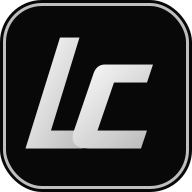
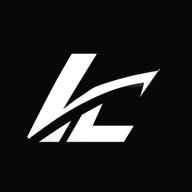
Add files via upload

diff --git a/app.js b/app.js
@@ -1,5 +1,7 @@
 const KEY='lifechangers-v2', OLD='lifechangers-v1';
-const ATTRS=[['🏃','Treino e saúde'],['🥗','Alimentação'],['📚','Estudos'],['🗓','Disciplina e rotina'],['💬','Social e comunicação'],['🌙','Sono e descanso'],['🪙','Finanças e economia'],['✨','Autocuidado & estilo']];
+const ATTRS=[['◈','Físico'],['✦','Espírito'],['▣','Conhecimento'],['♡','Emoção'],['◇','Aparência']];
+const ATTR_MAP={'Treino e saúde':'Físico','Alimentação':'Físico','Sono e descanso':'Físico','Estudos':'Conhecimento','Finanças e economia':'Conhecimento','Disciplina e rotina':'Espírito','Social e comunicação':'Emoção','Autocuidado & estilo':'Aparência'};
+const normalizedAttr=n=>ATTR_MAP[n]||n;
 const BASE=[
 ['food','Alimentação equilibrada','Faça refeições variadas ao longo do dia, respeitando sua fome e rotina.','Alimentação','🥗',25,'daily'],
 ['move','Movimento do dia','Faça a atividade planejada ou respeite seu dia de descanso.','Treino e saúde','🏃',30,'daily'],
@@ -17,9 +19,12 @@ const BASE=[
 ];
 const ACH=[['🌱','Primeiro passo','Conclua uma missão.',s=>s.totalCompleted>=1],['⚡','Ritmo em construção','Conclua 5 missões.',s=>s.totalCompleted>=5],['🏅','Aventureiro dedicado','Conclua 15 missões.',s=>s.totalCompleted>=15],['📈','Nível 5','Alcance o nível 5.',s=>s.level>=5],['✨','Autocuidado','Conclua uma missão de autocuidado.',s=>s.careDone],['🛍','Primeiro resgate','Resgate uma recompensa.',s=>s.inventory.length>0]];
 const today=()=>new Date().toLocaleDateString('en-CA');const week=()=>{let d=new Date();d.setHours(0,0,0,0);d.setDate(d.getDate()-((d.getDay()+6)%7));return d.toLocaleDateString('en-CA')};
-function fresh(){return {date:today(),week:week(),xp:0,coins:0,completed:[],weeklyDone:[],notCompleted:[],weeklyNotCompleted:[],custom:[],rewards:[{id:'r1',name:'Escolher um filme ou série',cost:45},{id:'r2',name:'Uma hora de lazer',cost:60},{id:'r3',name:'Passeio especial combinado',cost:160},{id:'r4',name:'Escolher uma atividade no fim de semana',cost:100},{id:'r5',name:'Tarde livre para um hobby',cost:110},{id:'r6',name:'Livro, acessório ou item planejado',cost:250},{id:'r7',name:'Passeio maior com planejamento',cost:350}],inventory:[],attrs:{},totalCompleted:0,careDone:false,player:{name:'Aventureiro',avatar:'⚡',title:'Iniciante'}}}
+function fresh(){return {date:today(),week:week(),xp:0,coins:0,completed:[],weeklyDone:[],notCompleted:[],weeklyNotCompleted:[],custom:[],rewards:[{id:'r1',name:'Escolher um filme ou série',cost:45},{id:'r2',name:'Uma hora de lazer',cost:60},{id:'r3',name:'Passeio especial combinado',cost:160},{id:'r4',name:'Escolher uma atividade no fim de semana',cost:100},{id:'r5',name:'Tarde livre para um hobby',cost:110},{id:'r6',name:'Livro, acessório ou item planejado',cost:250},{id:'r7',name:'Passeio maior com planejamento',cost:350}],inventory:[],attrs:{},missionProgress:{},history:[],totalCompleted:0,careDone:false,player:{name:'Aventureiro',avatar:'⚡',title:'Iniciante'}}}
 function load(){try{let s=JSON.parse(localStorage.getItem(KEY));if(!s){let old=JSON.parse(localStorage.getItem(OLD));s=fresh();if(old){s.xp=old.xp||0;s.coins=old.coins||0;s.completed=old.completed||[];s.totalCompleted=s.completed.length;s.careDone=!!old.careDone;s.rewards=(old.rewards||[]).map((r,i)=>({id:'legacy'+i,name:r.name,cost:100,claimed:!!r.claimed}));}}return {...fresh(),...(s||{})};}catch{return fresh()}}
 let state=load();
+if(!state.attrsMigrated4){const merged={};for(const [k,v] of Object.entries(state.attrs||{})){const key=normalizedAttr(k);merged[key]=(merged[key]||0)+(Number(v)||0);}state.attrs=merged;state.attrsMigrated4=true;}
+state.missionProgress=state.missionProgress||{};state.history=Array.isArray(state.history)?state.history:[];
+
 state.completed=Array.isArray(state.completed)?state.completed:[];state.weeklyDone=Array.isArray(state.weeklyDone)?state.weeklyDone:[];state.notCompleted=Array.isArray(state.notCompleted)?state.notCompleted:[];state.weeklyNotCompleted=Array.isArray(state.weeklyNotCompleted)?state.weeklyNotCompleted:[];
 // Atualiza apenas recompensas predefinidas; preserva recompensas pessoais e inventário.
 const DEFAULT_REWARDS=[{id:'r1',name:'Escolher um filme ou série',cost:45},{id:'r2',name:'Uma hora de lazer',cost:60},{id:'r3',name:'Passeio especial combinado',cost:160},{id:'r4',name:'Escolher uma atividade no fim de semana',cost:100},{id:'r5',name:'Tarde livre para um hobby',cost:110},{id:'r6',name:'Livro, acessório ou item planejado',cost:250},{id:'r7',name:'Passeio maior com planejamento',cost:350}];
@@ -28,7 +33,7 @@ for(const reward of DEFAULT_REWARDS){const i=state.rewards.findIndex(r=>r.id===r
 function save(){localStorage.setItem(KEY,JSON.stringify(state))}// XP acumulado preservado; dificuldade média com custo progressivo por nível.
 function levelInfo(){let remaining=Math.max(0,state.xp),lvl=1,needed=200;while(remaining>=needed&&lvl<1000){remaining-=needed;lvl++;needed=200+(lvl-1)*60;}return {level:lvl,progress:remaining,needed};}
 function level(){return levelInfo().level}function progress(){return levelInfo().progress}function rank(){let n=level();return n<3?'Iniciante':n<5?'Explorador':n<8?'Evoluindo':n<12?'Veterano':'Lenda em construção'}function esc(x){return String(x).replace(/[&<>"']/g,c=>({'&':'&amp;','<':'&lt;','>':'&gt;','"':'&quot;',"'":'&#39;'}[c]))}function toast(t){let e=document.querySelector('#toast');e.textContent=t;e.classList.add('show');setTimeout(()=>e.classList.remove('show'),2100)}
-function syncDates(){if(state.date!==today()){state.date=today();state.completed=[];state.notCompleted=[];}if(state.week!==week()){state.week=week();state.weeklyDone=[];state.weeklyNotCompleted=[];}}syncDates();
+function syncDates(){if(state.date!==today()){state.history.push({period:'daily',date:state.date,done:[...state.completed],missed:[...state.notCompleted]});state.history=state.history.slice(-365);state.date=today();state.completed=[];state.notCompleted=[];for(const k of Object.keys(state.missionProgress)){if(!k.startsWith('weekly:'))delete state.missionProgress[k];}}if(state.week!==week()){state.history.push({period:'weekly',date:state.week,done:[...state.weeklyDone],missed:[...state.weeklyNotCompleted]});state.week=week();state.weeklyDone=[];state.weeklyNotCompleted=[];for(const k of Object.keys(state.missionProgress)){if(k.startsWith('weekly:'))delete state.missionProgress[k];}}}syncDates();
 function missions(){return [...BASE.map(a=>({id:a[0],name:a[1],desc:a[2],category:a[3],icon:a[4],baseXp:a[5],type:a[6]})),...state.custom]}
 function adaptiveXp(m){let done=state.totalCompleted;let factor=done<5?1:done<15?1.08:done<35?1.15:1.2;return Math.round(m.baseXp*factor)}
 function periodOf(m){return m.type==='weekly'||(m.type==='custom'&&m.period==='weekly')?'weekly':'daily'}
@@ -36,18 +41,24 @@ function statusOf(m){let weekly=periodOf(m)==='weekly',doneList=weekly?state.wee
 function done(m){return statusOf(m)==='done'}
 function attrLevel(name){let xp=state.attrs[name]||0;return {level:Math.floor(xp/100)+1,progress:xp%100,xp}}
 function attrCards(){return ATTRS.map(([icon,name])=>{let a=attrLevel(name);return `<article class="attribute"><div class="attribute-icon">${icon}</div><div class="attribute-main"><strong>${name}</strong><small>Nível ${a.level} · ${a.xp} XP de atributo</small><div class="attribute-bar"><i style="width:${a.progress}%"></i></div></div><span class="attribute-level">${a.progress}/100</span></article>`}).join('')}
-function missionCard(m){let status=statusOf(m),xp=adaptiveXp(m),period=periodOf(m),coins=Math.max(3,Math.round(xp/5));return `<article class="mission ${status==='done'?'done':''} ${status==='missed'?'missed':''}"><div class="mission-icon">${m.icon}</div><div class="mission-copy"><div class="mission-heading"><span class="category-chip">${esc(m.category)}</span><span class="period-chip">${period==='weekly'?'DESAFIO SEMANAL':'MISSÃO DIÁRIA'}</span></div><h3>${esc(m.name)}</h3><p>${esc(m.desc)}</p></div><span class="xp-tag">+${xp} XP</span><div class="mission-bottom"><div class="mission-reward-info"><span class="reward-mini">✧ +${coins} moedas</span><span class="status-label ${status}">${status==='done'?'Concluída':status==='missed'?'Não concluída':'Aguardando registro'}</span></div><div class="mission-status"><button type="button" class="status-action ${status==='done'?'selected':''}" data-id="${esc(m.id)}" data-status="done">✓ Concluída</button><button type="button" class="status-action ${status==='missed'?'selected missed-choice':''}" data-id="${esc(m.id)}" data-status="missed">— Não concluída</button><button type="button" class="status-action ${status==='pending'?'selected':''}" data-id="${esc(m.id)}" data-status="pending">↺ Pendente</button></div></div></article>`}
+function missionCard(m){let status=statusOf(m),xp=adaptiveXp(m),period=periodOf(m),coins=Math.max(3,Math.round(xp/5)),attr=normalizedAttr(m.category),target=Math.max(1,Number(m.target)||1),key=period+':'+m.id,current=Math.min(target,Number(state.missionProgress[key])||0);return `<article class="mission ${status==='done'?'done':''} ${status==='missed'?'missed':''}"><div class="mission-icon">${m.icon}</div><div class="mission-copy"><div class="mission-heading"><span class="category-chip">${esc(attr)}</span><span class="period-chip">${period==='weekly'?'SEMANAL':'DIÁRIA'}</span></div><h3>${esc(m.name)}</h3><p>${esc(m.desc)}</p></div><span class="xp-tag">+${xp} XP</span><details class="mission-details"><summary>Detalhes e progresso <span>⌄</span></summary><div class="mission-spec"><p><b>Objetivo:</b> ${esc(m.instructions||m.desc)}</p><p><b>Atributo:</b> ${esc(attr)} · <b>Recompensa:</b> ${xp} XP + ${coins} moedas</p><label>Etapas realizadas (${current}/${target})<input class="mission-step" data-id="${esc(m.id)}" data-period="${period}" type="range" min="0" max="${target}" step="1" value="${current}" ${status==='done'?'disabled':''}></label><div class="step-track"><i style="width:${current/target*100}%"></i></div></div></details><div class="mission-bottom"><div class="mission-reward-info"><span class="status-label ${status}">${status==='done'?'Concluída':status==='missed'?'Não concluída':'Pendente'}</span></div><div class="mission-status"><button type="button" class="status-action ${status==='done'?'selected':''}" data-id="${esc(m.id)}" data-status="done">✓ Concluída</button><button type="button" class="status-action ${status==='missed'?'selected missed-choice':''}" data-id="${esc(m.id)}" data-status="missed">— Não concluída</button><button type="button" class="status-action ${status==='pending'?'selected':''}" data-id="${esc(m.id)}" data-status="pending">↺ Pendente</button></div></div></article>`}
+function drawRadar(){const canvas=document.querySelector('#radarChart');if(!canvas)return;const c=canvas.getContext('2d'),w=420,h=360;c.clearRect(0,0,w,h);const cx=210,cy=170,r=116,n=5,theta=i=>-Math.PI/2+Math.PI*2*i/n,pt=(i,v)=>[cx+Math.cos(theta(i))*r*v,cy+Math.sin(theta(i))*r*v];function shape(vals,fill,stroke){c.beginPath();vals.forEach((v,i)=>{let [x,y]=pt(i,v);i?c.lineTo(x,y):c.moveTo(x,y)});c.closePath();if(fill){c.fillStyle=fill;c.fill()}c.strokeStyle=stroke;c.lineWidth=1.5;c.stroke()}for(let k=1;k<=5;k++)shape(Array(5).fill(k/5),null,'#39393f');ATTRS.forEach((a,i)=>{let [x,y]=pt(i,1);c.beginPath();c.moveTo(cx,cy);c.lineTo(x,y);c.strokeStyle='#303036';c.stroke();});const vals=ATTRS.map(a=>Math.min(1,Math.max(.06,(state.attrs[a[1]]||0)/500)));shape(vals,'rgba(235,235,240,.23)','#f6f6f6');c.fillStyle='#e9e9ed';c.font='13px system-ui';c.textAlign='center';ATTRS.forEach((a,i)=>{let [x,y]=pt(i,1.27);c.fillText(a[1],x,y+4)})}
 function render(){syncDates();let all=missions(),daily=all.filter(m=>periodOf(m)==='daily'),weekly=all.filter(m=>periodOf(m)==='weekly'),dailyDone=daily.filter(done).length,weeklyDone=weekly.filter(done).length,weeklyPct=weekly.length?Math.round(weeklyDone/weekly.length*100):0;
-document.querySelector('#levelName').textContent=`NÍVEL ${level()} · ${rank().toUpperCase()}`;document.querySelector('#xpText').textContent=`${progress()} / ${levelInfo().needed} XP`;document.querySelector('#xpBar').style.width=(progress()/levelInfo().needed*100)+'%';document.querySelector('#totalXp').textContent=state.xp;document.querySelector('#coins').textContent=state.coins;document.querySelector('#doneToday').textContent=`${dailyDone}/${daily.length}`;document.querySelector('#heroAvatar').textContent=state.player.avatar;document.querySelector('#attributeList').innerHTML=attrCards();document.querySelector('#shopCoins').textContent=state.coins;document.querySelector('#profileLevel').textContent=level();document.querySelector('#profileXp').textContent=state.xp;document.querySelector('#profileDone').textContent=state.totalCompleted;document.querySelector('#avatarPreview').textContent=state.player.avatar;document.querySelector('#heroAvatar').textContent=state.player.avatar;document.querySelector('#playerName').value=state.player.name;document.querySelector('#avatarChoice').value=state.player.avatar;document.querySelector('#titleChoice').value=state.player.title;renderMissions('daily');renderRewards();renderInventory();renderAchievements();save()}
+document.querySelector('#levelName').textContent=`NÍVEL ${level()} · ${rank().toUpperCase()}`;document.querySelector('#xpText').textContent=`${progress()} / ${levelInfo().needed} XP`;document.querySelector('#xpBar').style.width=(progress()/levelInfo().needed*100)+'%';document.querySelector('#totalXp').textContent=state.xp;document.querySelector('#coins').textContent=state.coins;document.querySelector('#doneToday').textContent=`${dailyDone}/${daily.length}`;document.querySelector('#heroAvatar').textContent=state.player.avatar;document.querySelector('#attributeList').innerHTML=attrCards();drawRadar();document.querySelector('#shopCoins').textContent=state.coins;document.querySelector('#profileLevel').textContent=level();document.querySelector('#profileXp').textContent=state.xp;document.querySelector('#profileDone').textContent=state.totalCompleted;document.querySelector('#avatarPreview').textContent=state.player.avatar;document.querySelector('#heroAvatar').textContent=state.player.avatar;document.querySelector('#playerName').value=state.player.name;document.querySelector('#avatarChoice').value=state.player.avatar;document.querySelector('#titleChoice').value=state.player.title;renderMissions('daily');renderRewards();renderInventory();renderAchievements();save()}
 function attributeCard(icon,name){let a=attrLevel(name);return `<article class="attribute"><div class="attribute-icon">${icon}</div><div class="attribute-main"><strong>${name}</strong><small>Nível ${a.level} · ${a.xp} XP</small><div class="attribute-bar"><i style="width:${a.progress}%"></i></div></div><span class="attribute-level">${a.progress}%</span></article>`}
 let filter='daily';function renderMissions(f=filter){filter=f;let list=missions().filter(m=>f==='custom'?m.type==='custom':m.type===f);document.querySelector('#missionList').innerHTML=list.length?list.map(missionCard).join(''):'<div class="panel">Nenhuma missão nesta categoria ainda.</div>';document.querySelectorAll('.tab').forEach(b=>b.classList.toggle('active',b.dataset.filter===f));}
 function renderRewards(){document.querySelector('#rewardList').innerHTML=state.rewards.map((r,i)=>{let icon=r.icon||['🎬','☕','🌳','🎮','🎨','📖','🎟'][i%7],can=state.coins>=r.cost,pct=Math.min(100,Math.round(state.coins/Math.max(1,r.cost)*100));return `<article class="reward-card"><div class="reward-card-top"><div class="reward-icon">${icon}</div><span class="reward-state ${can?'ready':''}">${can?'DISPONÍVEL':'EM PROGRESSO'}</span></div><h3>${esc(r.name)}</h3><p>${esc(r.desc||'Escolha um momento para aproveitar essa recompensa.')}</p><div class="reward-progress-label"><span>Seu progresso</span><b>${pct}%</b></div><div class="reward-progress"><i style="width:${pct}%"></i></div><div class="reward-foot"><b>◈ ${r.cost} moedas</b><button data-buy="${esc(r.id)}" ${can?'':'disabled'}>${can?'Resgatar recompensa':'Faltam '+Math.max(0,r.cost-state.coins)}</button></div></article>`}).join('')||'<div class="panel">Crie sua primeira recompensa acima.</div>'}
 function renderInventory(){document.querySelector('#inventoryList').innerHTML=state.inventory.map(i=>`<article class="reward-card"><h3>🎉 ${esc(i.name)}</h3><p>Resgatada em ${new Date(i.date).toLocaleDateString('pt-BR')}.</p><span class="status-pill">Resgatada</span></article>`).join('')||'<div class="panel">Seu inventário está vazio. Resgate uma recompensa na loja!</div>'}
 function renderAchievements(){let s={totalCompleted:state.totalCompleted,level:level(),careDone:state.careDone,inventory:state.inventory};document.querySelector('#achievementList').innerHTML=ACH.map(([ico,n,d,fn])=>{let ok=fn(s);return `<article class="achievement ${ok?'':'locked'}"><div class="medal">${ico}</div><strong>${n} ${ok?'✓':'🔒'}</strong><p>${d}</p></article>`}).join('')}
 document.querySelector('#nav').addEventListener('click',e=>{let b=e.target.closest('[data-view]');if(b)go(b.dataset.view)});document.querySelectorAll('[data-goto]').forEach(b=>b.addEventListener('click',()=>go(b.dataset.goto)));function go(v){document.querySelectorAll('.view').forEach(x=>x.classList.toggle('active',x.id==='view-'+v));document.querySelectorAll('.nav').forEach(x=>x.classList.toggle('active',x.dataset.view===v));let names={inicio:'Visão geral',missoes:'Missões',atributos:'Atributos',loja:'Recompensas',inventario:'Inventário',conquistas:'Conquistas',perfil:'Personagem',backup:'Backup'};document.querySelector('#pageTitle').textContent=names[v]||v;window.scrollTo(0,0)}
-document.querySelector('#missionList').addEventListener('click',missionChange);function missionChange(e){let b=e.target.closest('[data-status][data-id]');if(!b)return;let id=b.dataset.id,m=missions().find(x=>String(x.id)===id);if(!m)return;let weekly=periodOf(m)==='weekly',doneList=weekly?state.weeklyDone:state.completed,missedList=weekly?state.weeklyNotCompleted:state.notCompleted,old=doneList.includes(m.id)?'done':missedList.includes(m.id)?'missed':'pending',next=b.dataset.status;if(old===next)return;let xp=adaptiveXp(m),coins=Math.max(3,Math.round(xp/5));if(old==='done'){state.xp=Math.max(0,state.xp-xp);state.coins=Math.max(0,state.coins-coins);state.totalCompleted=Math.max(0,state.totalCompleted-1);state.attrs[m.category]=Math.max(0,(state.attrs[m.category]||0)-xp);}doneList=doneList.filter(x=>x!==m.id);missedList=missedList.filter(x=>x!==m.id);if(next==='done'){doneList.push(m.id);state.xp+=xp;state.coins+=coins;state.totalCompleted++;state.attrs[m.category]=(state.attrs[m.category]||0)+xp;if(m.category==='Autocuidado & estilo')state.careDone=true;toast(`Missão concluída! +${xp} XP e +${coins} moedas`);}else if(next==='missed'){missedList.push(m.id);toast('Registrada como não concluída. Amanhã é uma nova chance.');}else toast('Missão voltou para pendente.');if(weekly){state.weeklyDone=doneList;state.weeklyNotCompleted=missedList;}else{state.completed=doneList;state.notCompleted=missedList;}render();if(filter==='custom')renderMissions('custom');}
-document.querySelectorAll('.tab').forEach(b=>b.addEventListener('click',()=>renderMissions(b.dataset.filter)));document.querySelector('#missionForm').addEventListener('submit',e=>{e.preventDefault();let name=document.querySelector('#missionName').value.trim();if(!name)return;let cat=document.querySelector('#missionCategory').value,period=document.querySelector('#missionFrequency').value;state.custom.push({id:'custom-'+Date.now(),name,desc:'Desafio criado por você. Marque o resultado no fim do período.',category:cat,icon:period==='weekly'?'🗓':'🎯',baseXp:period==='weekly'?40:20,type:'custom',period});document.querySelector('#missionName').value='';renderMissions('custom');render();go('missoes');renderMissions('custom');toast('Missão personalizada criada!')});
+document.querySelector('#missionList').addEventListener('click',missionChange);document.querySelector('#missionList').addEventListener('change',e=>{let el=e.target.closest('.mission-step');if(!el)return;state.missionProgress[el.dataset.period+':'+el.dataset.id]=Number(el.value);save();renderMissions();toast('Progresso parcial salvo');});function missionChange(e){let b=e.target.closest('[data-status][data-id]');if(!b)return;let id=b.dataset.id,m=missions().find(x=>String(x.id)===id);if(!m)return;let weekly=periodOf(m)==='weekly',doneList=weekly?state.weeklyDone:state.completed,missedList=weekly?state.weeklyNotCompleted:state.notCompleted,old=doneList.includes(m.id)?'done':missedList.includes(m.id)?'missed':'pending',next=b.dataset.status;if(old===next)return;let xp=adaptiveXp(m),coins=Math.max(3,Math.round(xp/5));if(old==='done'){state.xp=Math.max(0,state.xp-xp);state.coins=Math.max(0,state.coins-coins);state.totalCompleted=Math.max(0,state.totalCompleted-1);state.attrs[normalizedAttr(m.category)]=Math.max(0,(state.attrs[normalizedAttr(m.category)]||0)-xp);}doneList=doneList.filter(x=>x!==m.id);missedList=missedList.filter(x=>x!==m.id);if(next==='done'){doneList.push(m.id);state.xp+=xp;state.coins+=coins;state.totalCompleted++;state.attrs[normalizedAttr(m.category)]=(state.attrs[normalizedAttr(m.category)]||0)+xp;if(normalizedAttr(m.category)==='Aparência')state.careDone=true;toast(`Missão concluída! +${xp} XP e +${coins} moedas`);}else if(next==='missed'){missedList.push(m.id);toast('Registrada como não concluída. Amanhã é uma nova chance.');}else toast('Missão voltou para pendente.');if(weekly){state.weeklyDone=doneList;state.weeklyNotCompleted=missedList;}else{state.completed=doneList;state.notCompleted=missedList;}render();if(filter==='custom')renderMissions('custom');}
+document.querySelectorAll('.tab').forEach(b=>b.addEventListener('click',()=>renderMissions(b.dataset.filter)));document.querySelector('#missionForm').addEventListener('submit',e=>{e.preventDefault();let name=document.querySelector('#missionName').value.trim();if(!name)return;let cat=document.querySelector('#missionCategory').value,period=document.querySelector('#missionFrequency').value;state.custom.push({id:'custom-'+Date.now(),name,desc:'Desafio criado por você. Marque o resultado no fim do período.',instructions:document.querySelector('#missionDescription').value.trim(),target:Math.min(1000,Math.max(1,Number(document.querySelector('#missionTarget').value)||1)),category:cat,icon:period==='weekly'?'🗓':'🎯',baseXp:period==='weekly'?40:20,type:'custom',period});document.querySelector('#missionDescription').value='';document.querySelector('#missionName').value='';renderMissions('custom');render();go('missoes');renderMissions('custom');toast('Missão personalizada criada!')});
 document.querySelector('#rewardForm').addEventListener('submit',e=>{e.preventDefault();let name=document.querySelector('#rewardName').value.trim(),cost=Number(document.querySelector('#rewardCost').value);if(!name||!Number.isInteger(cost)||cost<30||cost>5000){toast('O preço mínimo é 30 moedas.');return;}state.rewards.push({id:'reward-'+Date.now(),name,cost,icon:'🎁',desc:'Recompensa personalizada.'});document.querySelector('#rewardName').value='';renderRewards();toast('Recompensa adicionada!')});document.querySelector('#rewardList').addEventListener('click',e=>{let id=e.target.dataset.buy;if(!id)return;let r=state.rewards.find(x=>x.id===id);if(!r||state.coins<r.cost)return;state.coins-=r.cost;state.inventory.unshift({id:'item-'+Date.now(),name:r.name,date:new Date().toISOString()});render();toast('Recompensa resgatada e guardada no inventário!')});
 document.querySelector('#saveProfile').addEventListener('click',()=>{state.player={name:document.querySelector('#playerName').value.trim()||'Aventureiro',avatar:document.querySelector('#avatarChoice').value,title:document.querySelector('#titleChoice').value};render();toast('Personagem atualizado!')});document.querySelector('#avatarChoice').addEventListener('change',e=>document.querySelector('#avatarPreview').textContent=e.target.value);
-document.querySelector('#exportBtn').addEventListener('click',()=>{let blob=new Blob([JSON.stringify({app:'LifeChangers',version:2,exportedAt:new Date().toISOString(),state},null,2)],{type:'application/json'});let a=document.createElement('a');a.href=URL.createObjectURL(blob);a.download='lifechangers-backup-'+today()+'.json';a.click();URL.revokeObjectURL(a.href);toast('Backup exportado!')});document.querySelector('#importFile').addEventListener('change',async e=>{let f=e.target.files[0];if(!f)return;try{let obj=JSON.parse(await f.text()),s=obj.state;if(obj.app!=='LifeChangers'||!s||typeof s.xp!=='number'||!Array.isArray(s.inventory)||!Array.isArray(s.rewards))throw Error('Arquivo inválido');if(!confirm('Importar este backup e substituir o progresso atual deste dispositivo?'))return;state={...fresh(),...s};render();toast('Backup importado com sucesso!')}catch(err){alert('Não foi possível importar: arquivo inválido ou incompatível.')}e.target.value=''});document.querySelector('#resetBtn').addEventListener('click',()=>{if(confirm('Isso apagará o progresso salvo neste navegador. Você já exportou um backup?')){state=fresh();render();toast('Dados locais reiniciados.')}});
+document.querySelector('#exportBtn').addEventListener('click',()=>{let blob=new Blob([JSON.stringify({app:'LifeChangers',version:2,exportedAt:new Date().toISOString(),state},null,2)],{type:'application/json'});let a=document.createElement('a');a.href=URL.createObjectURL(blob);a.download='lifechangers-backup-'+today()+'.json';a.click();URL.revokeObjectURL(a.href);toast('Backup exportado!')});document.querySelector('#importFile').addEventListener('change',async e=>{let f=e.target.files[0];if(!f)return;try{let obj=JSON.parse(await f.text()),s=obj.state;if(obj.app!=='LifeChangers'||!s||typeof s.xp!=='number'||!Array.isArray(s.inventory)||!Array.isArray(s.rewards))throw Error('Arquivo inválido');if(!confirm('Importar este backup e substituir o progresso atual deste dispositivo?'))return;state={...fresh(),...s};if(!state.attrsMigrated4){const merged={};for(const [k,v] of Object.entries(state.attrs||{})){const key=normalizedAttr(k);merged[key]=(merged[key]||0)+(Number(v)||0);}state.attrs=merged;state.attrsMigrated4=true;}state.missionProgress=state.missionProgress||{};state.history=state.history||[];render();toast('Backup importado com sucesso!')}catch(err){alert('Não foi possível importar: arquivo inválido ou incompatível.')}e.target.value=''});document.querySelector('#resetBtn').addEventListener('click',()=>{if(confirm('Isso apagará o progresso salvo neste navegador. Você já exportou um backup?')){state=fresh();render();toast('Dados locais reiniciados.')}});
 let promptEvent;window.addEventListener('beforeinstallprompt',e=>{e.preventDefault();promptEvent=e;document.querySelector('#installBtn').hidden=false});document.querySelector('#installBtn').addEventListener('click',async()=>{if(!promptEvent)return;promptEvent.prompt();await promptEvent.userChoice;promptEvent=null;document.querySelector('#installBtn').hidden=true});if('serviceWorker'in navigator&&location.protocol!=='file:')window.addEventListener('load',()=>navigator.serviceWorker.register('./sw.js').catch(()=>{}));render();
+
+// Entrada opcional: somente visitante funciona nesta beta; Google exige Firebase real.
+(function(){const entry=document.querySelector('#entry'),cover=document.querySelector('#entryCover'),reveal=document.querySelector('#revealLogin');if(sessionStorage.getItem('lc4-guest')==='yes'){entry.hidden=true;return;}let start=null;function open(){entry.classList.add('login-open')}reveal.addEventListener('click',open);cover.addEventListener('touchstart',e=>{start=e.touches[0].clientY},{passive:true});cover.addEventListener('touchend',e=>{if(start!==null&&start-e.changedTouches[0].clientY>65)open();start=null},{passive:true});document.querySelector('#guestLogin').addEventListener('click',()=>{sessionStorage.setItem('lc4-guest','yes');entry.hidden=true;});})();
+// Renova o período mesmo se a aba permanecer aberta na virada do dia.
+setInterval(()=>{if(state.date!==today()||state.week!==week())render()},60000);

diff --git a/index.html b/index.html
@@ -1,21 +1,21 @@
 <!doctype html>
 <html lang="pt-BR">
 <head>
-<meta charset="utf-8"><meta name="viewport" content="width=device-width,initial-scale=1,maximum-scale=1,user-scalable=no,viewport-fit=cover"><meta name="theme-color" content="#080808"><meta name="description" content="Seu RPG pessoal de evolução e hábitos."><title>LifeChangers — Seu RPG pessoal</title><link rel="apple-touch-icon" href="icon-192.png"><link rel="manifest" href="manifest.webmanifest?v=11"><link rel="icon" href="icon.svg?v=11"><link rel="stylesheet" href="styles.css?v=11">
+<meta charset="utf-8"><meta name="viewport" content="width=device-width,initial-scale=1,maximum-scale=1,user-scalable=no,viewport-fit=cover"><meta name="theme-color" content="#080808"><meta name="description" content="Seu RPG pessoal de evolução e hábitos."><title>LifeChangers — Seu RPG pessoal</title><link rel="apple-touch-icon" href="icon-192.png"><link rel="manifest" href="manifest.webmanifest?v=40"><link rel="icon" href="lc-symbol.png?v=40"><link rel="stylesheet" href="styles.css?v=40">
 </head>
-<body><div class="shell">
-<aside class="sidebar"><a class="brand" href="#inicio"><span class="brand-mark"><img src="icon.svg?v=11" alt="LC" width="38" height="38"></span><span><b>LifeChangers</b><small>FOCO • DISCIPLINA</small></span></a>
+<body><div id="entry" class="entry-screen" aria-label="Boas-vindas LifeChangers"><div class="entry-cover" id="entryCover"><div class="entry-content"><img src="lc-symbol.png" alt="Símbolo LC"><h1>LifeChangers</h1><p>FOCO · DISCIPLINA · EVOLUÇÃO</p></div><button type="button" id="revealLogin" class="swipe-cue"><span>⌃</span> Deslize para começar</button></div><div class="entry-login" id="entryLogin"><img src="lc-symbol.png" alt="LC"><h2>Sua evolução começa aqui.</h2><p>Uma missão de cada vez.</p><button type="button" id="googleLogin" class="google-login" disabled>Continuar com Google <small>Em breve</small></button><button type="button" id="guestLogin" class="guest-login">Continuar sem conta</button><small>Seu progresso como visitante fica salvo neste dispositivo.</small></div></div><div class="shell">
+<aside class="sidebar"><a class="brand" href="#inicio"><span class="brand-mark"><img src="lc-symbol.png" alt="LC" width="38" height="38"></span><span><b>LifeChangers</b><small>FOCO • DISCIPLINA</small></span></a>
 <nav id="nav"><button class="nav active" data-view="inicio">⌂ <span>Visão geral</span></button><button class="nav" data-view="missoes">⚔ <span>Missões</span></button><button class="nav" data-view="atributos">◈ <span>Atributos</span></button><button class="nav" data-view="loja">✦ <span>Recompensas</span></button><button class="nav" data-view="inventario">▣ <span>Inventário</span></button><button class="nav" data-view="conquistas">🏆 <span>Conquistas</span></button><button class="nav" data-view="perfil">☻ <span>Personagem</span></button><button class="nav" data-view="backup">↥ <span>Backup</span></button></nav>
 <div class="side-foot"><span class="online-dot"></span> Seu progresso, sua jornada.</div></aside>
 <main class="main"><header class="topbar"><div><div class="eyebrow">FOCO • CONSISTÊNCIA • EVOLUÇÃO</div><h1 id="pageTitle">Visão geral</h1></div><button id="installBtn" class="primary small" hidden>＋ Instalar</button></header>
 <section id="view-inicio" class="view active"><div class="hero"><div class="hero-copy"><span class="eyebrow">DISCIPLINA TODOS OS DIAS</span><h2 id="greeting">Faça o que precisa ser feito.</h2><p id="rankLine">Pequenas ações. Progresso real.</p><div class="level-line"><b id="levelName">NÍVEL 1 · INICIANTE</b><span id="xpText">0 / 200 XP</span></div><div class="bar"><i id="xpBar"></i></div></div><div class="hero-avatar" id="heroAvatar">⚡</div></div>
 <div class="metrics"><article><div class="metric-top"><span class="metric-symbol">✧</span><small>XP TOTAL</small></div><strong id="totalXp">0</strong><span>Experiência acumulada</span></article><article><div class="metric-top"><span class="metric-symbol">◈</span><small>MOEDAS</small></div><strong id="coins">0</strong><span>Saldo disponível</span></article><article><div class="metric-top"><span class="metric-symbol">✓</span><small>MISSÕES HOJE</small></div><strong id="doneToday">0/0</strong><span>Progresso diário</span></article></div>
 <div class="overview-shortcuts"><h2>Cada área no seu lugar</h2><p>Use as abas para acessar suas missões, atributos, recompensas e outras funções.</p><div class="overview-links"><button class="ghost" data-goto="missoes">Missões →</button><button class="ghost" data-goto="atributos">Atributos →</button><button class="ghost" data-goto="loja">Recompensas →</button></div></div></section>
-<section id="view-missoes" class="view"><div class="intro"><span class="eyebrow">QUEST LOG</span><h2>Missões e desafios</h2><p>Uma lista objetiva para acompanhar sua rotina. Marque cada tarefa quando concluir; nos dias de descanso, não precisa cumprir treino.</p></div><div class="tabs"><button class="tab active" data-filter="daily">Diárias</button><button class="tab" data-filter="weekly">Semanais</button><button class="tab" data-filter="custom">Personalizadas</button></div><div id="missionList" class="mission-grid"></div><form id="missionForm" class="panel form-panel"><h3>＋ Criar missão</h3><div class="form-row"><input id="missionName" maxlength="55" placeholder="Ex.: revisar minhas anotações" required><select id="missionFrequency"><option value="daily">Missão diária</option><option value="weekly">Missão semanal</option></select><select id="missionCategory"><option>Estudos</option><option>Treino e saúde</option><option>Disciplina e rotina</option><option>Alimentação</option><option>Social e comunicação</option><option>Sono e descanso</option><option>Finanças e economia</option><option>Autocuidado & estilo</option></select><button class="primary">Adicionar</button></div></form></section>
-<section id="view-atributos" class="view"><div class="intro"><span class="eyebrow">CHARACTER STATS</span><h2>Seus atributos</h2><p>Cada missão contribui para a área correspondente. Evolução é consistência, não competição.</p></div><div id="attributeList" class="attribute-grid"></div></section>
+<section id="view-missoes" class="view"><div class="intro"><span class="eyebrow">QUEST LOG</span><h2>Missões e desafios</h2><p>Uma lista objetiva para acompanhar sua rotina. Marque cada tarefa quando concluir; nos dias de descanso, não precisa cumprir treino.</p></div><div class="tabs"><button class="tab active" data-filter="daily">Diárias</button><button class="tab" data-filter="weekly">Semanais</button><button class="tab" data-filter="custom">Personalizadas</button></div><div id="missionList" class="mission-grid"></div><form id="missionForm" class="panel form-panel"><h3>＋ Criar missão</h3><div class="form-row"><input id="missionName" maxlength="55" placeholder="Ex.: revisar minhas anotações" required><select id="missionFrequency"><option value="daily">Missão diária</option><option value="weekly">Missão semanal</option></select><select id="missionCategory"><option>Físico</option><option>Espírito</option><option>Conhecimento</option><option>Emoção</option><option>Aparência</option></select><input id="missionDescription" maxlength="240" placeholder="Instruções da missão (opcional)"><input id="missionTarget" type="number" min="1" max="1000" value="1" aria-label="Quantidade de etapas" title="Número de etapas"><button class="primary">Adicionar</button></div></form></section>
+<section id="view-atributos" class="view"><div class="intro"><span class="eyebrow">CHARACTER STATS</span><h2>Seus atributos</h2><p>Cada missão contribui para a área correspondente. Evolução é consistência, não competição.</p></div><div class="radar-wrap panel"><canvas id="radarChart" width="420" height="360" role="img" aria-label="Gráfico de radar com os cinco atributos"></canvas><p>O gráfico cresce conforme você desenvolve seus atributos.</p></div><div id="attributeList" class="attribute-grid"></div></section>
 <section id="view-loja" class="view"><div class="intro"><span class="eyebrow">REAL-LIFE REWARDS</span><h2>Loja de recompensas</h2><p>Troque moedas por experiências e pequenas recompensas que você escolheu. Combine limites e prioridades com sua família quando envolver gastos.</p></div><div class="wallet panel"><span>SEU SALDO</span><strong>🪙 <b id="shopCoins">0</b> moedas</strong></div><form id="rewardForm" class="panel form-panel"><h3>＋ Criar recompensa pessoal</h3><div class="form-row"><input id="rewardName" maxlength="60" placeholder="Ex.: escolher um filme para a noite" required><input id="rewardCost" type="number" min="30" max="5000" value="90" required><button class="primary">Adicionar</button></div><small>O preço mínimo é 30 moedas. Moedas são pontos fictícios, não dinheiro real.</small></form><div id="rewardList" class="reward-grid"></div></section>
 <section id="view-inventario" class="view"><div class="intro"><span class="eyebrow">YOUR COLLECTION</span><h2>Inventário</h2><p>Suas recompensas resgatadas ficam guardadas aqui.</p></div><div id="inventoryList" class="reward-grid"></div></section>
 <section id="view-conquistas" class="view"><div class="intro"><span class="eyebrow">ACHIEVEMENTS</span><h2>Conquistas</h2><p>Marcos da sua jornada, sem pressão para desbloquear tudo de uma vez.</p></div><div id="achievementList" class="achievement-grid"></div></section>
 <section id="view-perfil" class="view"><div class="intro"><span class="eyebrow">PLAYER PROFILE</span><h2>Seu personagem</h2><p>Personalize sua identidade dentro do jogo.</p></div><div class="profile-layout panel"><div class="avatar-preview" id="avatarPreview">⚡</div><div class="profile-fields"><label>Nome do personagem<input id="playerName" maxlength="24" placeholder="Aventureiro"></label><label>Avatar<select id="avatarChoice"><option>⚡</option><option>🧙</option><option>🛡</option><option>🐉</option><option>🌟</option><option>🦊</option><option>🚀</option><option>🌙</option></select></label><label>Título<select id="titleChoice"><option>Iniciante</option><option>Explorador</option><option>Construtor de hábitos</option><option>Guardião da rotina</option><option>Mestre da constância</option></select></label><button id="saveProfile" class="primary">Salvar personagem</button></div></div><div class="panel profile-summary"><div><small>NÍVEL</small><b id="profileLevel">1</b></div><div><small>XP TOTAL</small><b id="profileXp">0</b></div><div><small>MISSÕES CONCLUÍDAS</small><b id="profileDone">0</b></div></div></section>
 <section id="view-backup" class="view"><div class="intro"><span class="eyebrow">DATA & SAFETY</span><h2>Backup e sincronização</h2><p>Proteja seu progresso antes de trocar de aparelho ou atualizar o projeto.</p></div><div class="panel backup-card"><h3>↧ Backup por arquivo</h3><p>Baixe uma cópia dos seus dados e importe-a em outro dispositivo. Guarde o arquivo em local privado.</p><div class="actions"><button id="exportBtn" class="primary">Exportar backup</button><label class="file-btn">Importar backup<input id="importFile" type="file" accept="application/json"></label></div></div><div class="panel backup-card"><h3>☁ Sincronização na nuvem</h3><p>A sincronização automática entre PC e celular precisa de um serviço de banco de dados e de configuração própria. Ainda não está conectada nesta versão; não vamos fingir que está funcionando.</p><span class="status-pill">Preparada para configuração</span><p class="hint">Quando escolhermos um provedor, configuraremos login e regras de segurança para que somente sua conta acesse os dados.</p></div><div class="panel backup-card"><h3>⚠ Reiniciar progresso</h3><p>Apaga os dados locais deste navegador. Exporte um backup antes.</p><button id="resetBtn" class="danger">Apagar dados deste dispositivo</button></div></section>
-<footer>LIFECHANGERS <span>•</span> VERSÃO 3.4 <span>•</span> EVOLUA NO SEU RITMO</footer></main></div><div id="toast" class="toast" role="status" aria-live="polite"></div><script src="app.js?v=10"></script></body></html>
+<footer>LIFECHANGERS <span>•</span> VERSÃO 4.0 BETA <span>•</span> EVOLUA NO SEU RITMO</footer></main></div><div id="toast" class="toast" role="status" aria-live="polite"></div><script src="app.js?v=40"></script></body></html>

diff --git a/styles.css b/styles.css
@@ -302,3 +302,19 @@ button,input,select{touch-action:manipulation}
   .mission-status .status-action{font-size:10px!important;letter-spacing:-.15px!important}
   .sidebar .nav{padding:9px 10px!important;font-size:12px!important}
 }
+
+/* LifeChangers 4.0: UI and touch */
+button,.nav,.tab,.brand,.mission summary,.swipe-cue{-webkit-user-select:none;user-select:none;-webkit-tap-highlight-color:transparent;touch-action:manipulation}
+input,textarea,select{-webkit-user-select:text;user-select:text}
+.entry-screen{position:fixed;inset:0;z-index:10000;background:#09090b;color:#fff;overflow:hidden}
+.entry-screen[hidden]{display:none}
+.entry-cover{position:absolute;inset:0;z-index:2;background:radial-gradient(ellipse at 50% 35%,#242429 0%,#0b0b0e 52%,#050506 100%);display:flex;align-items:center;justify-content:center;transition:transform .65s cubic-bezier(.2,.8,.2,1);touch-action:pan-y}
+.entry-screen.login-open .entry-cover{transform:translateY(-105%)}
+.entry-content{text-align:center;padding:25px}.entry-content img{width:min(55vw,220px);height:155px;object-fit:contain;filter:drop-shadow(0 3px 18px #7773)}.entry-content h1{font-size:clamp(32px,7vw,54px);letter-spacing:-1.7px;margin:0}.entry-content p{font-size:10px;letter-spacing:3px;color:#aaa}
+.swipe-cue{position:absolute;bottom:7vh;background:transparent;border:0;color:#ccc;display:flex;flex-direction:column;align-items:center;gap:9px;font-size:13px;cursor:pointer;animation:floatCue 2.4s ease-in-out infinite}.swipe-cue span{font-size:32px}@keyframes floatCue{50%{transform:translateY(-7px)}}
+.entry-login{position:absolute;inset:0;display:flex;flex-direction:column;align-items:center;justify-content:center;gap:16px;padding:32px;text-align:center}.entry-login img{width:125px;height:100px;object-fit:contain}.entry-login h2{font-size:clamp(22px,5vw,30px);margin:15px 0 0}.entry-login p,.entry-login>small{color:#999}.entry-login button{max-width:340px;width:100%;padding:16px;border-radius:12px;font-weight:700;cursor:pointer}.google-login{background:#ededee;color:#171719;border:0;opacity:.58;cursor:not-allowed!important}.google-login small{margin-left:8px}.guest-login{background:transparent;color:#fff;border:1px solid #666}
+.radar-wrap{display:flex;flex-direction:column;align-items:center;gap:4px;margin-bottom:22px}.radar-wrap canvas{display:block;width:100%;max-width:420px;height:auto}.radar-wrap p{color:#999;font-size:13px;text-align:center}
+.mission-details{grid-column:1/-1;width:100%;border-top:1px solid #2c2c32;margin-top:10px;padding-top:12px}.mission-details summary{cursor:pointer;list-style:none;font-size:13px;font-weight:600;color:#ddd}.mission-details summary::-webkit-details-marker{display:none}.mission-details summary span{float:right}.mission-spec{margin-top:14px;color:#aaa;font-size:13px;line-height:1.6}.mission-spec p{margin:7px 0}.mission-spec label{display:block;margin-top:12px}.mission-step{display:block;width:100%;accent-color:#eee;margin-top:8px}.step-track{height:5px;border-radius:8px;background:#303036;overflow:hidden}.step-track i{display:block;background:#eee;height:100%}
+@media(max-width:760px){.mission{min-width:0}.entry-content img{height:135px}.mission-details{min-width:0}.form-row input,.form-row select{min-width:0}}
+
+.mission-details{grid-column:1/-1!important;grid-row:auto!important}.mission-details .mission-step{width:100%;max-width:100%;min-height:30px}.mission-spec p{font-size:12px!important;line-height:1.6!important}.entry-screen button:focus-visible{outline:2px solid white;outline-offset:4px}.brand-mark{background:#19191b!important}.brand-mark img{object-fit:contain;width:34px;height:34px}

diff --git a/sw.js b/sw.js
@@ -1,4 +1,4 @@
-const CACHE="lifechangers-v11";const FILES=["./","./index.html","./styles.css","./app.js","./manifest.webmanifest","./icon.svg","./icon-192.png","./icon-512.png","./icon-maskable-192.png","./icon-maskable-512.png"];
+const CACHE="lifechangers-v40";const FILES=["./","./index.html","./styles.css","./app.js","./manifest.webmanifest","./icon.svg","./lc-symbol.png","./icon-192.png","./icon-512.png","./icon-maskable-192.png","./icon-maskable-512.png"];
 self.addEventListener("install",e=>e.waitUntil(caches.open(CACHE).then(c=>c.addAll(FILES)).then(()=>self.skipWaiting())));
 self.addEventListener("activate",e=>e.waitUntil(caches.keys().then(keys=>Promise.all(keys.filter(k=>k.startsWith("lifechangers-")&&k!==CACHE).map(k=>caches.delete(k)))).then(()=>self.clients.claim())));
 self.addEventListener("fetch",e=>{if(e.request.method!=="GET")return;e.respondWith(caches.match(e.request).then(c=>c||fetch(e.request).then(r=>{if(r.ok){const copy=r.clone();caches.open(CACHE).then(cache=>cache.put(e.request,copy));}return r;}).catch(()=>caches.match("./index.html"))))});
